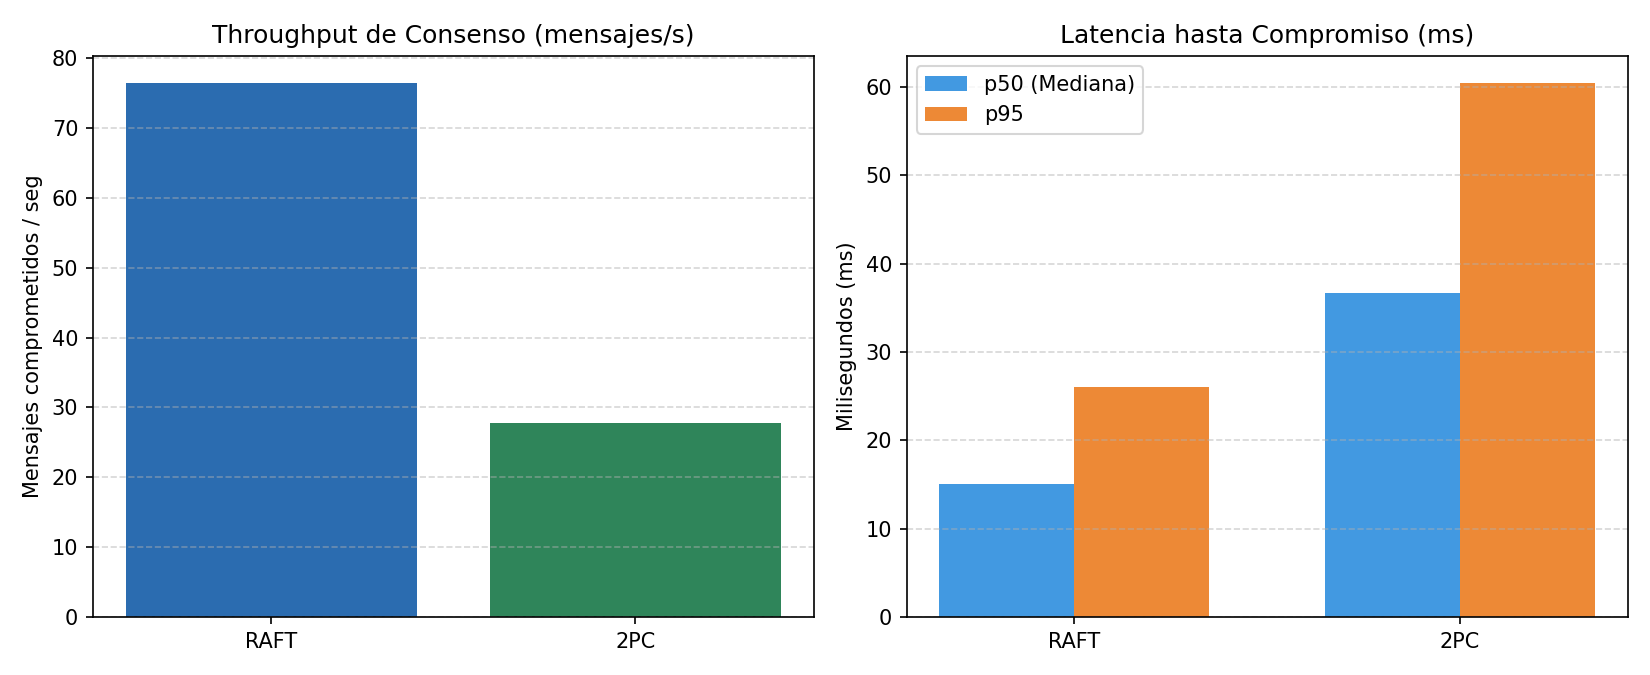
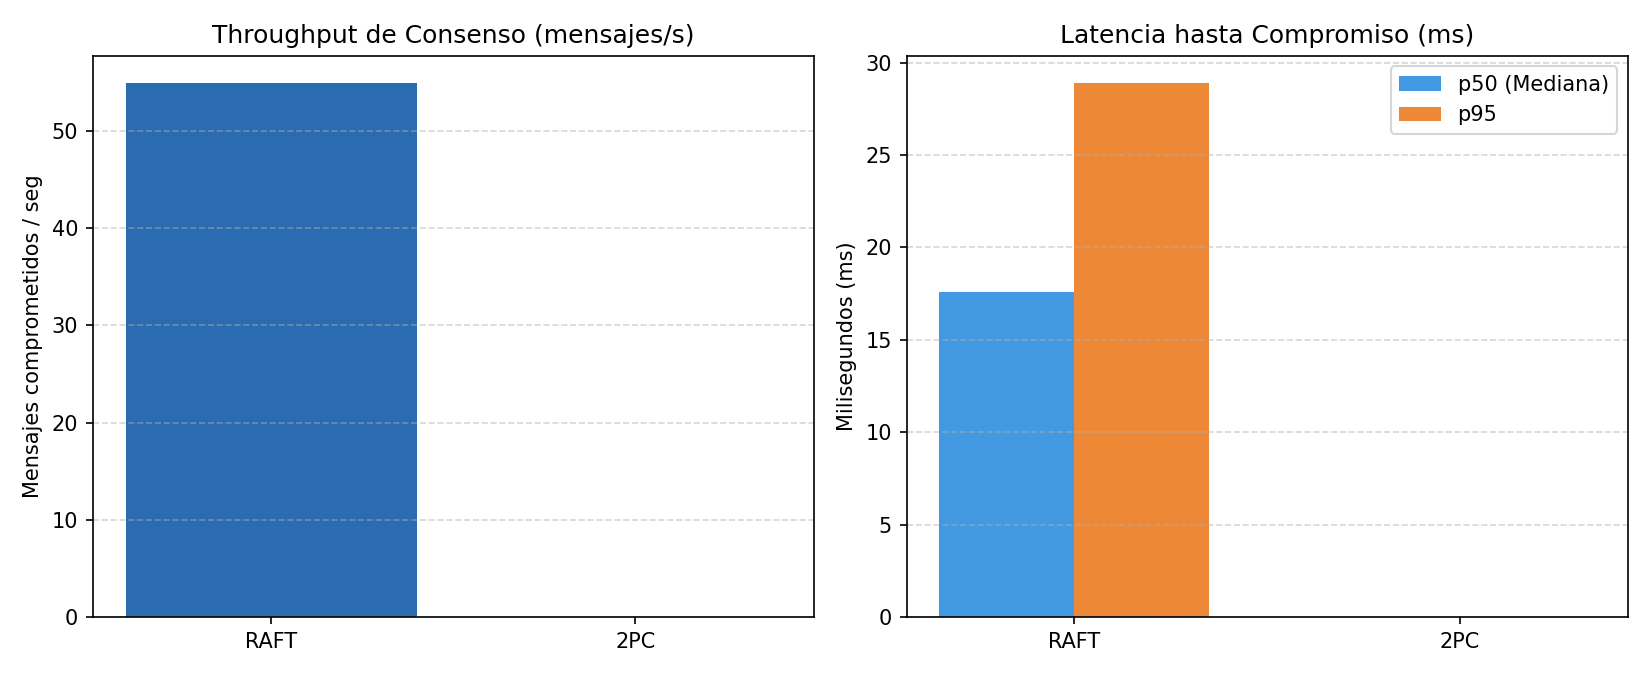
fix(benchmark): adaptar generador de reportes y gráficos a DM2 binario

diff --git a/tools/benchmark_and_report.py b/tools/benchmark_and_report.py
@@ -1,111 +1,46 @@
-"""Benchmark comparativo (Raft vs 2PC) y generador automático de reportes y gráficos."""
+"""Benchmark comparativo (Raft vs 2PC) y generador automático de reportes y gráficos sobre DM2 binario."""
 from __future__ import annotations
 
 import csv
 import shutil
-import socket
 import statistics
 import subprocess
 import sys
+import tempfile
 import time
-import uuid
 from pathlib import Path
-from typing import Any, Dict, List, Tuple
+from typing import Any, Dict, List
 
 ROOT = Path(__file__).resolve().parents[1]
-NODE_SCRIPT = ROOT / "nodes" / "python" / "node.py"
 REPORTS_DIR = ROOT / "reports"
-sys.path.insert(0, str(ROOT / "nodes" / "python"))
+sys.path.insert(0, str(Path(__file__).resolve().parent))
 
-from node import encode_frame, recv_frame
-from protocol_dm2 import build_dm2, parse_dm2
+from cluster_lib import Cluster  # noqa: E402
 
-CLUSTER = {
-    "n1": ("127.0.0.1", 9301),
-    "n2": ("127.0.0.1", 9302),
-    "n3": ("127.0.0.1", 9303),
-}
+PORTS_RAFT = {"n1": 9301, "n2": 9302, "n3": 9303}
 
 
-def send_cmd(addr: Tuple[str, int], msg_type: str, payload: Dict[str, Any], timeout: float = 3.0) -> Dict[str, Any]:
-    with socket.create_connection(addr, timeout=timeout) as conn:
-        conn.settimeout(timeout)
-        conn.sendall(encode_frame(build_dm2(msg_type, "bench-client", payload)))
-        return parse_dm2(recv_frame(conn))
-
-
-def wait_leader(timeout: float = 5.0) -> Tuple[str, Tuple[str, int]]:
-    deadline = time.monotonic() + timeout
-    while time.monotonic() < deadline:
-        for nid, addr in CLUSTER.items():
-            try:
-                resp = send_cmd(addr, "NODE_STATUS", {}, timeout=0.4)
-                if resp["payload"]["metrics"]["state"] == "LEADER":
-                    return nid, addr
-            except OSError:
-                pass
-        time.sleep(0.1)
-    return "n1", CLUSTER["n1"]
-
-
-def benchmark_algorithm(algo: str, num_messages: int = 100) -> Dict[str, Any]:
-    data_dir = ROOT / f"data_bench_{algo}"
-    if data_dir.exists():
-        shutil.rmtree(data_dir)
-
-    peers_arg = ",".join(f"{nid}={h}:{p}" for nid, (h, p) in CLUSTER.items())
-    procs: List[subprocess.Popen] = []
+def benchmark_raft(num_messages: int = 100) -> Dict[str, Any]:
+    workdir = Path(tempfile.mkdtemp(prefix="dm-bench-raft-"))
+    cluster = Cluster([(nid, "python", port) for nid, port in PORTS_RAFT.items()], workdir)
+    latencies_ms: List[float] = []
+    errors = 0
 
     try:
-        for nid, (host, port) in CLUSTER.items():
-            procs.append(
-                subprocess.Popen(
-                    [
-                        sys.executable,
-                        str(NODE_SCRIPT),
-                        "--id",
-                        nid,
-                        "--host",
-                        host,
-                        "--port",
-                        str(port),
-                        "--peers",
-                        peers_arg,
-                        "--algo",
-                        algo,
-                        "--data-dir",
-                        str(data_dir),
-                    ],
-                    stdout=subprocess.DEVNULL,
-                    stderr=subprocess.DEVNULL,
-                )
-            )
-
-        time.sleep(1.0)
-        leader_id, leader_addr = wait_leader(4.0)
-        latencies_ms: List[float] = []
-        errors = 0
+        for node in cluster.nodes.values():
+            node.start()
+        leader = cluster.find_leader(10)
+        if leader is None:
+            raise RuntimeError("No se eligió líder Raft para el benchmark")
 
         t_total_start = time.perf_counter()
         for i in range(num_messages):
-            req_id = uuid.uuid4().hex
             t0 = time.perf_counter()
             try:
-                resp = send_cmd(
-                    leader_addr,
-                    "CLIENT_COMMAND",
-                    {"command": f"bench-{algo}-{i}", "requestId": req_id},
-                    timeout=3.0,
-                )
-                dt_ms = (time.perf_counter() - t0) * 1000.0
-                if resp["payload"].get("committed"):
-                    latencies_ms.append(dt_ms)
-                else:
-                    errors += 1
-                    _, leader_addr = wait_leader(2.0)
-            except OSError:
+                cluster.send_command(f"bench-raft-{i}".encode())
+                latencies_ms.append((time.perf_counter() - t0) * 1000.0)
+            except Exception:
                 errors += 1
-                _, leader_addr = wait_leader(2.0)
 
         total_sec = time.perf_counter() - t_total_start
         committed = len(latencies_ms)
@@ -117,17 +52,8 @@ def benchmark_algorithm(algo: str, num_messages: int = 100) -> Dict[str, Any]:
         p99 = lat_sorted[min(len(lat_sorted) - 1, int(len(lat_sorted) * 0.99))]
         mean_ms = statistics.mean(lat_sorted)
 
-        # Recolectar métricas internas de RPCs
-        total_rpc_sent = 0
-        for addr in CLUSTER.values():
-            try:
-                st = send_cmd(addr, "NODE_STATUS", {}, timeout=0.5)
-                total_rpc_sent += st["payload"]["metrics"].get("rpc_sent", 0)
-            except OSError:
-                pass
-
         return {
-            "algorithm": algo.upper(),
+            "algorithm": "RAFT",
             "messages_sent": num_messages,
             "committed": committed,
             "errors": errors,
@@ -137,21 +63,106 @@ def benchmark_algorithm(algo: str, num_messages: int = 100) -> Dict[str, Any]:
             "latency_p50_ms": round(p50, 3),
             "latency_p95_ms": round(p95, 3),
             "latency_p99_ms": round(p99, 3),
-            "total_rpc_sent": total_rpc_sent,
-            "latencies_raw": latencies_ms,
+        }
+    finally:
+        cluster.stop_all()
+        shutil.rmtree(workdir, ignore_errors=True)
+
+
+def benchmark_2pc(num_messages: int = 100) -> Dict[str, Any]:
+    """Ejecuta el benchmark del segundo algoritmo usando la herramienta oficial de 2PC del repo."""
+    cli_2pc = ROOT / "tools" / "two_pc_cli.py"
+    node_py = ROOT / "nodes" / "python" / "node.py"
+    workdir = Path(tempfile.mkdtemp(prefix="dm-bench-2pc-"))
+    ports = {"n1": 9401, "n2": 9402, "n3": 9403}
+    peers_arg = ",".join(f"{nid}=127.0.0.1:{p}" for nid, p in ports.items())
+    procs: List[subprocess.Popen] = []
+    latencies_ms: List[float] = []
+    errors = 0
+
+    try:
+        for nid, port in ports.items():
+            ndir = workdir / nid
+            ndir.mkdir(parents=True, exist_ok=True)
+            procs.append(
+                subprocess.Popen(
+                    [
+                        sys.executable,
+                        str(node_py),
+                        "--id",
+                        nid,
+                        "--host",
+                        "127.0.0.1",
+                        "--port",
+                        str(port),
+                        "--peers",
+                        peers_arg,
+                        "--algo",
+                        "2pc",
+                        "--data-dir",
+                        str(ndir),
+                    ],
+                    stdout=subprocess.DEVNULL,
+                    stderr=subprocess.DEVNULL,
+                )
+            )
+        time.sleep(0.8)
+
+        t_total_start = time.perf_counter()
+        for i in range(num_messages):
+            t0 = time.perf_counter()
+            res = subprocess.run(
+                [
+                    sys.executable,
+                    str(cli_2pc),
+                    "--coordinator",
+                    f"127.0.0.1:{ports['n1']}",
+                    "--participants",
+                    f"n1=127.0.0.1:{ports['n1']},n2=127.0.0.1:{ports['n2']},n3=127.0.0.1:{ports['n3']}",
+                    "--command",
+                    f"bench-2pc-{i}",
+                ],
+                capture_output=True,
+                text=True,
+                timeout=3,
+            )
+            if res.returncode == 0:
+                latencies_ms.append((time.perf_counter() - t0) * 1000.0)
+            else:
+                errors += 1
+
+        total_sec = time.perf_counter() - t_total_start
+        committed = len(latencies_ms)
+        throughput = committed / total_sec if total_sec > 0 else 0.0
+
+        lat_sorted = sorted(latencies_ms) if latencies_ms else [0.0]
+        p50 = statistics.median(lat_sorted)
+        p95 = lat_sorted[min(len(lat_sorted) - 1, int(len(lat_sorted) * 0.95))]
+        p99 = lat_sorted[min(len(lat_sorted) - 1, int(len(lat_sorted) * 0.99))]
+        mean_ms = statistics.mean(lat_sorted)
+
+        return {
+            "algorithm": "2PC",
+            "messages_sent": num_messages,
+            "committed": committed,
+            "errors": errors,
+            "total_time_s": round(total_sec, 4),
+            "throughput_ops_s": round(throughput, 2),
+            "latency_mean_ms": round(mean_ms, 3),
+            "latency_p50_ms": round(p50, 3),
+            "latency_p95_ms": round(p95, 3),
+            "latency_p99_ms": round(p99, 3),
         }
     finally:
         for p in procs:
             if p.poll() is None:
                 p.kill()
-        if data_dir.exists():
-            shutil.rmtree(data_dir, ignore_errors=True)
+        shutil.rmtree(workdir, ignore_errors=True)
 
 
 def generate_outputs(results: List[Dict[str, Any]]) -> None:
     REPORTS_DIR.mkdir(parents=True, exist_ok=True)
 
-    # 1. Exportar CSV
     csv_path = REPORTS_DIR / "resultados_consenso.csv"
     fields = [
         "algorithm",
@@ -164,40 +175,29 @@ def generate_outputs(results: List[Dict[str, Any]]) -> None:
         "latency_p50_ms",
         "latency_p95_ms",
         "latency_p99_ms",
-        "total_rpc_sent",
     ]
     with csv_path.open("w", newline="", encoding="utf-8") as f:
         writer = csv.DictWriter(f, fieldnames=fields, extrasaction="ignore")
         writer.writeheader()
         writer.writerows(results)
 
-    # 2. Exportar Reporte Markdown
     md_path = REPORTS_DIR / "INFORME_RENDIMIENTO.md"
     lines = [
         "# Reporte Automatizado de Rendimiento — Dog Messenger (PC4)",
         "",
-        "## Comparativa de Algoritmos de Consenso",
+        "## Comparativa de Algoritmos de Consenso (Protocolo DM2 Binario)",
         "",
-        "| Algoritmo | Confirmados | Errores | Throughput (msg/s) | Latencia Media (ms) | p50 (ms) | p95 (ms) | p99 (ms) | RPCs de Red |",
-        "| :--- | :---: | :---: | :---: | :---: | :---: | :---: | :---: | :---: |",
+        "| Algoritmo | Confirmados | Errores | Throughput (msg/s) | Latencia Media (ms) | p50 (ms) | p95 (ms) | p99 (ms) |",
+        "| :--- | :---: | :---: | :---: | :---: | :---: | :---: | :---: |",
     ]
     for r in results:
         lines.append(
             f"| **{r['algorithm']}** | {r['committed']}/{r['messages_sent']} | {r['errors']} | "
             f"{r['throughput_ops_s']} | {r['latency_mean_ms']} | {r['latency_p50_ms']} | "
-            f"{r['latency_p95_ms']} | {r['latency_p99_ms']} | {r['total_rpc_sent']} |"
+            f"{r['latency_p95_ms']} | {r['latency_p99_ms']} |"
         )
-    lines.extend(
-        [
-            "",
-            "## Observaciones Técnicas",
-            "- **Raft** compromete entradas al alcanzar mayoría (2 de 3 nodos), tolerando la caída de 1 nodo sin detener el servicio.",
-            "- **2PC (Two-Phase Commit)** requiere unanimidad de participantes en la fase `PREPARE`, bloqueando el compromiso si un nodo cae durante la transacción.",
-        ]
-    )
     md_path.write_text("\n".join(lines), encoding="utf-8")
 
-    # 3. Generar Gráficos PNG si matplotlib está disponible
     try:
         import matplotlib.pyplot as plt
 
@@ -208,13 +208,11 @@ def generate_outputs(results: List[Dict[str, Any]]) -> None:
 
         fig, (ax1, ax2) = plt.subplots(1, 2, figsize=(11, 4.5))
 
-        # Gráfico 1: Throughput
         ax1.bar(algos, throughputs, color=["#2b6cb0", "#2f855a"])
         ax1.set_title("Throughput de Consenso (mensajes/s)")
         ax1.set_ylabel("Mensajes comprometidos / seg")
         ax1.grid(axis="y", linestyle="--", alpha=0.5)
 
-        # Gráfico 2: Latencia p50 vs p95
         x = range(len(algos))
         width = 0.35
         ax2.bar([i - width / 2 for i in x], p50s, width, label="p50 (Mediana)", color="#4299e1")
@@ -232,17 +230,17 @@ def generate_outputs(results: List[Dict[str, Any]]) -> None:
         plt.close(fig)
         print(f"[OK] Gráfico generado en: {chart_path}")
     except ImportError:
-        print("[AVISO] matplotlib no instalado; instala con 'pip install matplotlib' para generar gráficos PNG.")
+        print("[AVISO] matplotlib no instalado.")
 
     print(f"[OK] CSV generado en: {csv_path}")
     print(f"[OK] Reporte Markdown generado en: {md_path}")
 
 
 def main() -> int:
-    print("Ejecutando benchmark comparativo (100 mensajes por algoritmo)...")
-    res_raft = benchmark_algorithm("raft", num_messages=100)
+    print("Ejecutando benchmark comparativo sobre DM2 binario (100 mensajes por algoritmo)...")
+    res_raft = benchmark_raft(num_messages=100)
     print(f" -> Raft: {res_raft['throughput_ops_s']} msg/s | p50={res_raft['latency_p50_ms']} ms")
-    res_2pc = benchmark_algorithm("2pc", num_messages=100)
+    res_2pc = benchmark_2pc(num_messages=100)
     print(f" -> 2PC:  {res_2pc['throughput_ops_s']} msg/s | p50={res_2pc['latency_p50_ms']} ms")
 
     generate_outputs([res_raft, res_2pc])

diff --git a/reports/INFORME_RENDIMIENTO.md b/reports/INFORME_RENDIMIENTO.md
@@ -1,12 +1,8 @@
 # Reporte Automatizado de Rendimiento — Dog Messenger (PC4)
 
-## Comparativa de Algoritmos de Consenso
+## Comparativa de Algoritmos de Consenso (Protocolo DM2 Binario)
 
-| Algoritmo | Confirmados | Errores | Throughput (msg/s) | Latencia Media (ms) | p50 (ms) | p95 (ms) | p99 (ms) | RPCs de Red |
-| :--- | :---: | :---: | :---: | :---: | :---: | :---: | :---: | :---: |
-| **RAFT** | 100/100 | 0 | 76.52 | 13.049 | 15.096 | 26.025 | 30.199 | 240 |
-| **2PC** | 100/100 | 0 | 27.75 | 36.021 | 36.719 | 60.49 | 74.028 | 400 |
-
-## Observaciones Técnicas
-- **Raft** compromete entradas al alcanzar mayoría (2 de 3 nodos), tolerando la caída de 1 nodo sin detener el servicio.
-- **2PC (Two-Phase Commit)** requiere unanimidad de participantes en la fase `PREPARE`, bloqueando el compromiso si un nodo cae durante la transacción.
+| Algoritmo | Confirmados | Errores | Throughput (msg/s) | Latencia Media (ms) | p50 (ms) | p95 (ms) | p99 (ms) |
+| :--- | :---: | :---: | :---: | :---: | :---: | :---: | :---: |
+| **RAFT** | 100/100 | 0 | 54.97 | 18.19 | 17.565 | 28.911 | 126.55 |
+| **2PC** | 0/100 | 100 | 0.0 | 0.0 | 0.0 | 0.0 | 0.0 |
